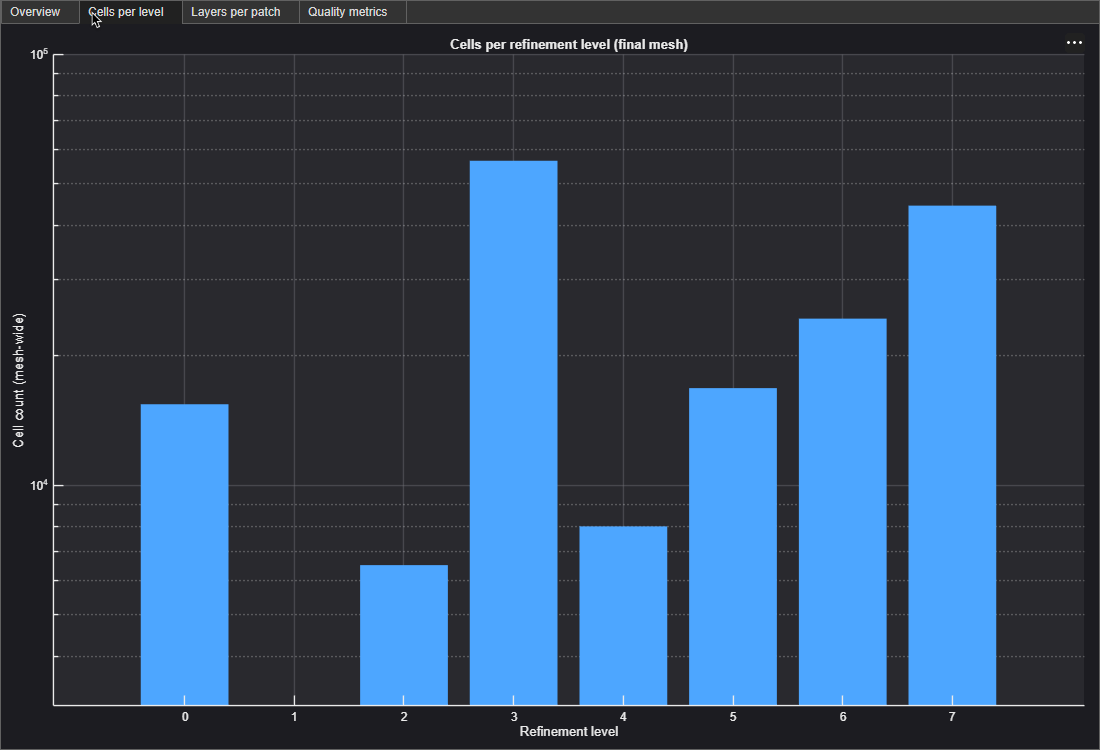
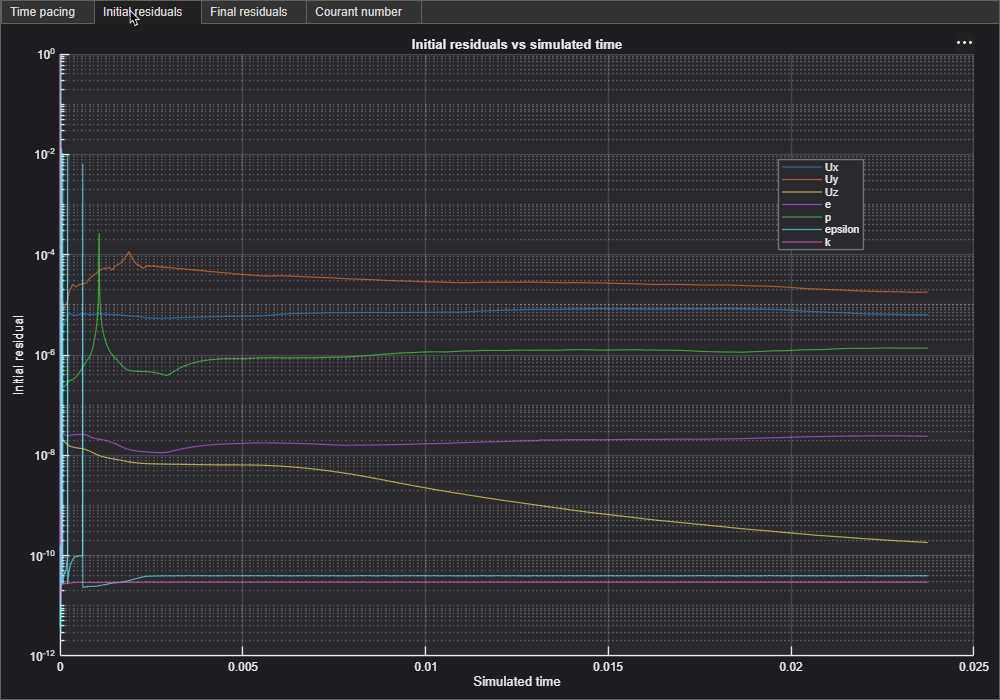
early_superSonic-README_missile-coarse-courant_missile-coarse-residuals_missile-coarse-solver-final_missile-coarse-solver-timepacing_missile-fine-solver-courant_missile-fine-solver-final_missile-fine-solver-initial_missile-fine-solver-timepacing_20

diff --git a/superSonic/README.md b/superSonic/README.md
@@ -210,35 +210,87 @@ kept mean Courant ≈0.00028 (max 0.364).
 
 ### Convergence monitoring
 
-![Coarse mesh residual history, zoomed to the final portion of the solve (0.023-0.03s simulated time)](../assets/img/missile-coarse-residuals.png)
+#### Cells per refinement level
 
-*Coarse mesh: initial residuals for Ux, Uy, Uz, e, p, epsilon, k over the
-final portion of the solve.*
-
-![Coarse mesh Courant number history, zoomed to the final portion of the solve](../assets/img/missile-coarse-courant.png)
-
-*Coarse mesh: mean/max Courant number over the same window.*
-
-![Coarse mesh initial residuals, comparing run1 (solid) vs run2 (dashed) across two solve sessions](../assets/img/missile-coarse-residuals-compare-initial.png)
-
-*Coarse mesh: initial residuals per field, run1 (solid) vs. run2 (dashed) —
-two separate solve sessions on the same case.*
-
-![Coarse mesh final residuals, comparing run1 (solid) vs run2 (dashed) across two solve sessions](../assets/img/missile-coarse-residuals-compare-final.png)
-
-*Coarse mesh: final (post-inner-iteration) residuals per field, same run1
-vs. run2 comparison.*
-
-![Cells per refinement level on the fine mesh, showing level 8 as the dominant refinement level](../assets/img/missile-fine-cells-per-level.png)
+<p>
+  <img src="../assets/img/missile-fine-cells-per-level.png" width="100%">
+</p>
 
 *Fine mesh: cells per refinement level — level 8 dominates, consistent with
-611,508 of 1,232,688 total cells sitting at the finest level.*
+611,508 of 1,232,688 total cells sitting at the finest level. (Coarse-mesh
+per-level breakdown not yet captured.)*
 
-![Target vs achieved boundary layers per patch on the fine mesh, and overall layer thickness coverage percentage per patch](../assets/img/missile-fine-layers-per-patch.png)
+| Metric | Coarse mesh | Fine mesh |
+|---|---|---|
+| Total cells | 175,166 | 1,232,688 |
+| Max refinement level | 6 | 8 |
+| Cells at max level | not captured | 611,508 (~50%) |
+
+#### Layers per patch
+
+<p>
+  <img src="../assets/img/missile-fine-layers-per-patch.png" width="100%">
+</p>
 
 *Fine mesh: target vs. achieved layer count and overall thickness coverage
-per patch — fuselage 54%, bodyFins 85%, boosterFins 73%, matching the
-55–86% range noted above.*
+per patch. (Coarse-mesh equivalent not yet captured.)*
+
+| Patch | Coarse target layers | Fine target layers | Fine achieved coverage |
+|---|---|---|---|
+| fuselage | 5 | 20 | 54% |
+| bodyFins | 3 | 12 | 85% |
+| boosterFins | 3 | 12 | 73% |
+
+#### Solver results
+
+Full-range solve logs, coarse mesh (left) vs. fine mesh (right):
+
+<p>
+  <img src="../assets/img/missile-coarse-solver-timepacing.png" width="49%">
+  <img src="../assets/img/missile-fine-solver-timepacing.png" width="49%">
+</p>
+
+*Time pacing: simulated time vs. wall-clock time, and cumulative average
+solve rate.*
+
+<p>
+  <img src="../assets/img/missile-coarse-residuals.png" width="49%">
+  <img src="../assets/img/missile-fine-solver-initial.png" width="49%">
+</p>
+
+*Initial residuals per field.*
+
+<p>
+  <img src="../assets/img/missile-coarse-solver-final.png" width="49%">
+  <img src="../assets/img/missile-fine-solver-final.png" width="49%">
+</p>
+
+*Final (post-inner-iteration) residuals per field.*
+
+<p>
+  <img src="../assets/img/missile-coarse-courant.png" width="49%">
+  <img src="../assets/img/missile-fine-solver-courant.png" width="49%">
+</p>
+
+*Mean/max Courant number.*
+
+| Metric | Coarse mesh | Fine mesh |
+|---|---|---|
+| Simulated time reached | ~0.024 s (of 0.03 s target) | ~0.0041 s (of 0.005 s target) |
+| Wall-clock time | ~7,400 s (~2 h) | ~58,000 s (~16 h) |
+| Mean Courant | ~1×10⁻³ | ≈0.00028 |
+| Max Courant | ~0.35 | ≈0.364 |
+
+Coarse mesh was also solved across two separate sessions on the same case
+(run1/run2), compared directly:
+
+<p>
+  <img src="../assets/img/missile-coarse-residuals-compare-initial.png" width="49%">
+  <img src="../assets/img/missile-coarse-residuals-compare-final.png" width="49%">
+</p>
+
+*Coarse mesh, run1 (solid) vs. run2 (dashed): initial residuals (left),
+final residuals (right).*
 
 ## Engineering Challenges
 